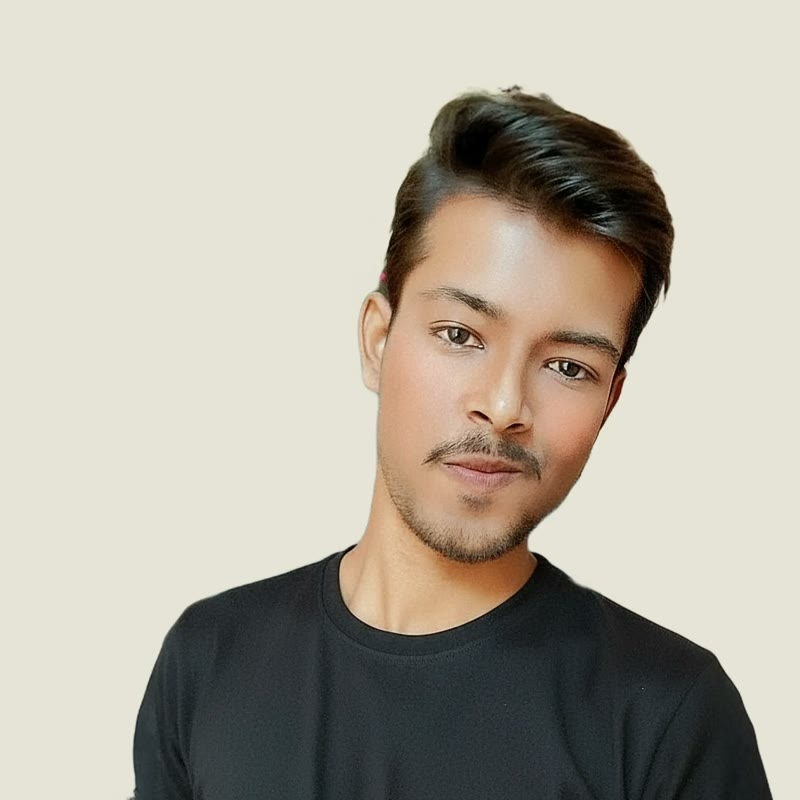
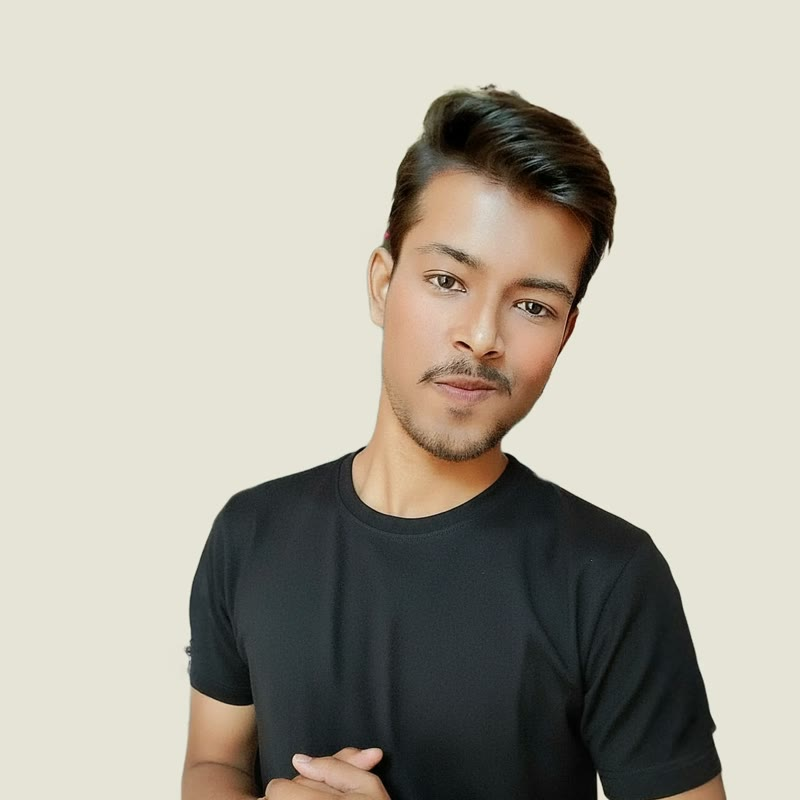
Team portraits: face and chest, top to bottom, calmer engraving
- Photos re-cropped wider, to head and chest
- The portrait now runs from the box's top edge to its foot, narrow over the
  head and widening to the shoulders
- Tones are set from the face, lines are finer and sway less, with less grit;
  fewer tiles, kept off the face

Changed region(s): [[0.1562, 0.0938, 0.9688, 1.0]]

diff --git a/src/components/EngravedPortrait.tsx b/src/components/EngravedPortrait.tsx
@@ -70,21 +70,22 @@ function lightness(image: HTMLImageElement | null, size: number) {
     out[i] = (0.299 * data[i * 4]! + 0.587 * data[i * 4 + 1]! + 0.114 * data[i * 4 + 2]!) / 255;
   }
   // Tone it as an engraver would, from the face rather than the whole frame:
-  // the middle of the square sets the black and white points (2nd and 98th
-  // percentiles), and a gamma puts its median tone at mid-grey. So a darker
+  // the face sets the black and white points (2nd and 98th percentiles), and a
+  // gamma puts its median tone a little under mid-grey. So a darker
   // complexion or a dark backdrop still lands in the lines' mid-range, where the
   // forms read, instead of going to solid ink.
   const sample: number[] = [];
   const step = Math.max(1, Math.floor(size / 120));
-  for (let y = Math.floor(size * 0.15); y < size * 0.85; y += step) {
-    for (let x = Math.floor(size * 0.2); x < size * 0.8; x += step) sample.push(out[y * size + x]!);
+  // The face: the upper middle of a head-and-shoulders crop.
+  for (let y = Math.floor(size * 0.08); y < size * 0.55; y += step) {
+    for (let x = Math.floor(size * 0.3); x < size * 0.7; x += step) sample.push(out[y * size + x]!);
   }
   sample.sort((a, b) => a - b);
   const at = (q: number) => sample[Math.min(sample.length - 1, Math.floor(q * sample.length))] ?? 0;
   const lo = at(0.02);
   const span = Math.max(at(0.98) - lo, 0.05);
   const median = Math.min(0.95, Math.max(0.05, (at(0.5) - lo) / span));
-  const gamma = Math.min(1.6, Math.max(0.4, Math.log(0.52) / Math.log(median)));
+  const gamma = Math.min(1.6, Math.max(0.4, Math.log(0.46) / Math.log(median)));
   for (let i = 0; i < out.length; i++) {
     const l = Math.min(1, Math.max(0, (out[i]! - lo) / span));
     out[i] = Math.pow(l, gamma);
@@ -97,9 +98,9 @@ function engrave(light: Float32Array, size: number, seed: number) {
   const img = new ImageData(size, size);
   const px = img.data;
   const rand = random(seed * 7 + 1);
-  const pitch = Math.max(3, size / 96); // line spacing
+  const pitch = Math.max(3, size / 118); // line spacing: fine enough for a face to read
   const wave = size / 5; // wavelength of the lines' sway
-  const sway = pitch * 1.4;
+  const sway = pitch * 0.9; // gentle, so the lines don't fight the features
   const tilt = (rand() - 0.5) * 0.3;
   for (let y = 0; y < size; y++) {
     for (let x = 0; x < size; x++) {
@@ -107,11 +108,11 @@ function engrave(light: Float32Array, size: number, seed: number) {
       const dark = 1 - light[i]!;
       // Lines run across, swaying, their phase bent a little by the image so they
       // follow the forms.
-      const v = (y + tilt * x + sway * Math.sin((x / wave) * Math.PI * 2 + y / (wave * 1.7)) + dark * pitch * 0.8) / pitch;
+      const v = (y + tilt * x + sway * Math.sin((x / wave) * Math.PI * 2 + y / (wave * 1.7)) + dark * pitch * 0.45) / pitch;
       const d = Math.abs((v - Math.floor(v)) - 0.5) * 2; // 0 on a line's centre, 1 between
       const grit = (Math.sin(x * 12.9898 + y * 78.233) * 43758.5453) % 1;
       // Lights carry no ink at all; elsewhere a little grit roughens the edges.
-      const width = dark < 0.06 ? 0 : Math.min(1, dark * 1.1) + Math.abs(grit) * 0.1 - 0.05;
+      const width = dark < 0.06 ? 0 : Math.min(1, dark * 1.05) + Math.abs(grit) * 0.05 - 0.025;
       const ink = d < width ? 1 : 0;
       const o = i * 4;
       if (ink) {
@@ -156,32 +157,34 @@ function lineWork(ctx: CanvasRenderingContext2D, x: number, y: number, s: number
 
 type Cell = "photo" | "ground" | "pastel" | "lines";
 
-/** Which cells show what: a blocky silhouette round the subject, with tiles —
- *  only ever round its edges, never over the face. */
+/** Which cells show what: the portrait runs from the top edge to the bottom —
+ *  narrow over the head and widening to the shoulders, its sides stepped
+ *  unevenly into the ground — with a few tiles round its edges, never over the
+ *  face. */
 function layout(seed: number) {
   const rand = random(seed);
   const cells: Cell[] = [];
-  const ring: number[] = []; // distance of each cell from the middle, no jitter
+  const edge: number[] = [];
   const c = (GRID - 1) / 2;
   for (let row = 0; row < GRID; row++) {
+    const t = row / (GRID - 1);
+    // Half-width of the silhouette in cells: the head's at the top, the
+    // shoulders' near the foot.
+    const half = 2.1 + 1.8 * (t * t * (3 - 2 * t));
     for (let col = 0; col < GRID; col++) {
-      // Distance from a centre a touch above the middle, squashed so the shape
-      // runs down to the shoulders.
-      const dx = (col - c) / c;
-      const dy = (row - c + 0.6) / (c * 1.25);
-      const d = Math.hypot(dx, dy);
-      ring.push(d);
-      cells.push(d + (rand() - 0.5) * 0.35 < 1.02 ? "photo" : "ground");
+      const off = Math.abs(col - c) - (half + (rand() - 0.5) * 0.8);
+      cells.push(off < 0 ? "photo" : "ground");
+      // Tiles only on the silhouette's edge, and never over the face (the
+      // middle of the top five rows).
+      const overFace = row < 5 && Math.abs(col - c) < 2.2;
+      if (off > -1.2 && off < 1 && !overFace) edge.push(row * GRID + col);
     }
   }
-  // A few cells swapped for tiles, picked from the outer ring only, where the
-  // silhouette meets the ground.
-  const edge = cells.map((_, i) => i).filter((i) => ring[i]! >= 0.72 && ring[i]! <= 1.25);
-  const tiles = 5 + Math.floor(rand() * 3);
+  const tiles = 3 + Math.floor(rand() * 3);
   for (let n = 0; n < tiles && edge.length; n++) {
     const i = edge.splice(Math.floor(rand() * edge.length), 1)[0]!;
     const roll = rand();
-    cells[i] = roll < 0.4 ? "pastel" : roll < 0.75 ? "lines" : cells[i] === "photo" ? "ground" : "lines";
+    cells[i] = roll < 0.45 ? "pastel" : roll < 0.85 ? "lines" : cells[i] === "photo" ? "ground" : "lines";
   }
   return cells;
 }
